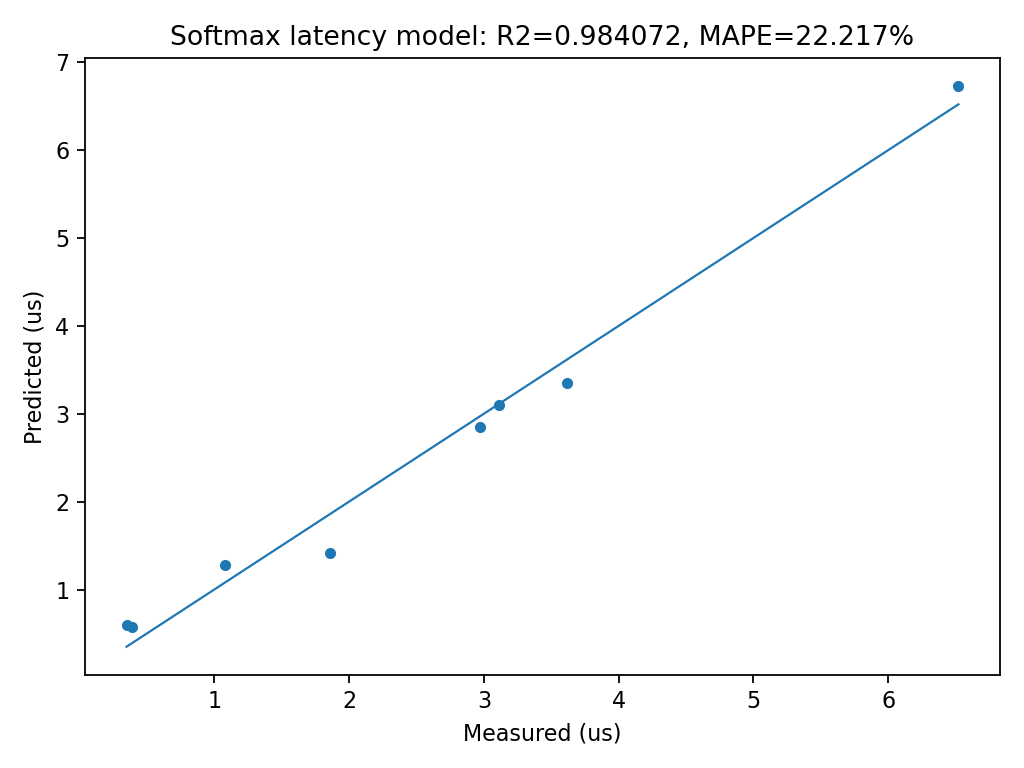
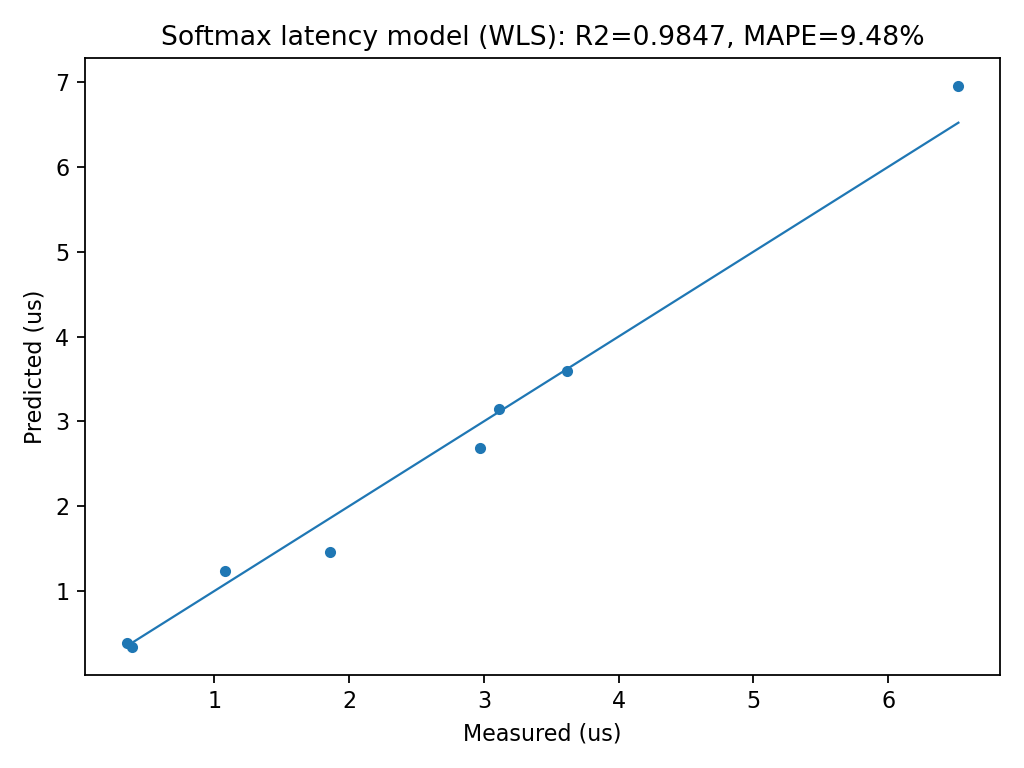
chore: ignore build/profiler artifacts

diff --git a/measurements/fit_model/softmax/fit_softmax_model.py b/measurements/fit_model/softmax/fit_softmax_model.py
@@ -4,10 +4,14 @@ import pandas as pd
 import matplotlib.pyplot as plt
 from typing import Tuple, Dict
 
-TARGET_FILE = "softmax_kernel.h"
+# ---------------- fixed targets & knobs ----------------
+TARGET_FILE  = "softmax_kernel.h"
 TARGET_LINES = (98, 103)
+CORES   = 24      # for Ascend 910B1
+K_ALIGN = 128     # coarse alignment feature; adjust if you know the kernel's true tile-K
 
 def parse_mk_from_path(path: str) -> Tuple[int,int]:
+    # Parse 'M x K' from any component of the path; delimiters: x/X/*
     m = re.search(r"(\d+)\s*[xX\*]\s*(\d+)", path)
     if not m: return (-1, -1)
     return tuple(map(int, m.groups()))
@@ -25,53 +29,76 @@ def sum_softmax_time_us(df: pd.DataFrame) -> float:
     mask = df["file"].astype(str).str.endswith(TARGET_FILE, na=False) & df["line"].isin(TARGET_LINES)
     return float(df.loc[mask, "running_time(us)"].sum())
 
-def summarize_one(p: str) -> dict:
-    df = read_code_exe(p)
-    M, K = parse_mk_from_path(p)
+def summarize_one(csv_path: str) -> Dict:
+    df = read_code_exe(csv_path)
+    M, K = parse_mk_from_path(csv_path)
     meas_us = sum_softmax_time_us(df)
     soft_file_total_us = float(df[df["file"].astype(str).str.endswith(TARGET_FILE, na=False)]["running_time(us)"].sum())
-    grand_total_us = float(df["running_time(us)"].sum())
+    grand_total_us     = float(df["running_time(us)"].sum())
     present_lines = sorted(df[df["file"].astype(str).str.endswith(TARGET_FILE, na=False)]["line"].dropna().unique().tolist())
     found_lines = sorted(df[(df["file"].astype(str).str.endswith(TARGET_FILE, na=False)) & (df["line"].isin(TARGET_LINES))]["line"].unique().tolist())
     note = ""
     if not found_lines:
-        note = f"WARNING: none of {TARGET_LINES} appeared; present lines head={present_lines[:10]}"
+        note = f"WARNING: none of {TARGET_LINES} appeared; present head={present_lines[:10]}"
     elif set(found_lines) != set(TARGET_LINES):
         note = f"INFO: only found lines {found_lines}, target={TARGET_LINES}"
-    return dict(path=p, M=M, K=K, meas_us=meas_us,
+
+    # light features
+    if M > 0:
+        core_row = (M + CORES - 1) // CORES        # ceil(M / CORES)
+        blocks   = (M + core_row - 1) // core_row  # ceil(M / core_row)
+    else:
+        core_row = 0; blocks = 0
+    k_tail = 1 if (K > 0 and (K % K_ALIGN) != 0) else 0
+
+    return dict(path=csv_path, M=M, K=K, meas_us=meas_us,
                 softmax_file_total_us=soft_file_total_us,
                 grand_total_us=grand_total_us,
                 ratio_target_over_file=(meas_us/soft_file_total_us if soft_file_total_us>0 else math.nan),
                 ratio_target_over_total=(meas_us/grand_total_us if grand_total_us>0 else math.nan),
-                found_lines=found_lines, present_lines=present_lines, note=note)
+                found_lines=found_lines, present_lines=present_lines, note=note,
+                blocks=blocks, k_tail=k_tail)
 
-def build_design(df_cases: pd.DataFrame) -> pd.DataFrame:
+def build_X(df_cases: pd.DataFrame) -> pd.DataFrame:
     return pd.DataFrame({
-        "MK": df_cases["M"]*df_cases["K"],
-        "M":  df_cases["M"],
+        "MK":   df_cases["M"]*df_cases["K"],
+        "M":    df_cases["M"],
+        "blk":  df_cases["blocks"],
+        "ktl":  df_cases["k_tail"],
         "bias": 1.0
     })
 
-def fit_linear(X: pd.DataFrame, y: pd.Series):
-    XtX = X.T @ X
-    Xty = X.T @ y
+def fit_wls_relative(X: pd.DataFrame, y: pd.Series):
+    # Weighted least squares with weights ~ 1 / y^2 to target relative error (MAPE-like).
+    yv = y.values.astype(float)
+    Xv = X.values.astype(float)
+    w  = 1.0 / np.maximum(1e-9, yv)**2              # emphasize relative error
+    WX = Xv * w[:, None]
+    Wy = yv * w
+    XtWX = Xv.T @ WX
+    XtWy = Xv.T @ Wy
     try:
-        beta = np.linalg.solve(XtX.values, Xty.values)
+        beta = np.linalg.solve(XtWX, XtWy)
     except np.linalg.LinAlgError:
-        beta = np.linalg.pinv(XtX.values) @ Xty.values
-    yhat = X.values @ beta
-    resid = y.values - yhat
+        beta = np.linalg.pinv(XtWX) @ XtWy
+    yhat = Xv @ beta
+
+    # metrics
+    resid = yv - yhat
+    ape   = np.abs(resid / np.maximum(1e-9, yv)) * 100.0
+    mape  = float(np.mean(ape))
+    p50   = float(np.percentile(ape, 50))
+    p90   = float(np.percentile(ape, 90))
     ss_res = float(np.sum(resid**2))
-    ss_tot = float(np.sum((y.values - y.values.mean())**2)) if len(y)>1 else 0.0
+    ss_tot = float(np.sum((yv - yv.mean())**2)) if len(yv)>1 else 0.0
     r2 = 1.0 - ss_res/ss_tot if ss_tot>0 else float("nan")
-    mape = float(np.mean(np.abs(resid / np.maximum(1e-9, y.values))) * 100.0)
-    return beta, yhat, r2, mape
+    return beta, yhat, dict(MAPE=mape, P50=p50, P90=p90, R2=r2)
 
 def main():
     ap = argparse.ArgumentParser()
     ap.add_argument("--csv_glob", default="./results/core0.veccore0_code_exe_*.csv",
-                    help="Glob pattern of msprof code_exe CSV files (default: ./results/core0.veccore0_code_exe_*.csv)")
-    ap.add_argument("--out_dir", default="./softmax_fit_out")
+                    help="Glob of msprof code_exe CSVs (default: ./results/core0.veccore0_code_exe_*.csv)")
+    ap.add_argument("--out_dir",  default="./softmax_fit_out")
     args = ap.parse_args()
 
     paths = sorted(glob.glob(args.csv_glob))
@@ -84,43 +111,58 @@ def main():
     summary_csv = os.path.join(args.out_dir, "softmax_latency_summary.csv")
     data.to_csv(summary_csv, index=False)
 
+    # sanity prints
     bad = data[(data["ratio_target_over_file"]>1.0) | (data["ratio_target_over_file"]<0)]
     if len(bad):
-        print("[WARN] target/file ratio out of [0,1] range for some rows:")
+        print("[WARN] target/file ratio out of [0,1] for rows:")
         print(bad[["path","ratio_target_over_file"]].to_string(index=False))
 
-    fit_df = data[(data["M"]>0) & (data["K"]>0)].copy()
-    model_json = os.path.join(args.out_dir, "softmax_latency_model.json")
-    if len(fit_df) >= 3:
-        X = build_design(fit_df)
-        y = fit_df["meas_us"]
-        beta, yhat, r2, mape = fit_linear(X, y)
-        coefs = dict(a_MK=float(beta[0]), b_M=float(beta[1]), c_bias=float(beta[2]))
-        json.dump(dict(model="T_us = a*MK + b*M + c",
-                       target_file=TARGET_FILE, target_lines=TARGET_LINES,
-                       coefficients=coefs, metrics=dict(r2=r2, mape=mape),
-                       samples=len(fit_df)),
-                  open(model_json, "w"), indent=2)
-        plt.figure()
-        plt.scatter(y, yhat, s=16)
-        lo, hi = float(y.min()), float(y.max())
-        plt.plot([lo, hi], [lo, hi], linewidth=1)
-        plt.xlabel("Measured (us)")
-        plt.ylabel("Predicted (us)")
-        plt.title(f"Softmax latency model: R2={r2:.6f}, MAPE={mape:.3f}%")
-        plt.tight_layout()
-        plt.savefig(os.path.join(args.out_dir, "softmax_latency_fit_plot.png"), dpi=160)
-        print("[OK] Fitted model: T_us = a*MK + b*M + c")
-        print("     a_MK={:.6e}, b_M={:.6e}, c={:.6e}".format(coefs["a_MK"], coefs["b_M"], coefs["c_bias"]))
-        print("     R2={:.6f}, MAPE={:.3f}%".format(r2, mape))
-    else:
-        json.dump(dict(model="T_us = a*MK + b*M + c",
-                       target_file=TARGET_FILE, target_lines=TARGET_LINES,
-                       error="Not enough samples to fit; need >=3 with distinct (M,K).",
-                       samples=len(fit_df)),
-                  open(model_json, "w"), indent=2)
-        print("[WARN] Not enough samples to fit model (need >=3 distinct shapes); wrote JSON with explanation.")
+    # fit (need >=3 with valid shapes)
+    fit_df = data[(data["M"]>0)&(data["K"]>0)].copy()
+    if len(fit_df) < 3:
+        model_json = os.path.join(args.out_dir, "softmax_latency_model.json")
+        json.dump(dict(
+            model="T_us = a*MK + b*M + d*blocks + e*k_tail + c",
+            error="Not enough samples to fit; need >=3 with distinct (M,K).",
+            samples=len(fit_df),
+            targets=dict(file=TARGET_FILE, lines=TARGET_LINES),
+        ), open(model_json, "w"), indent=2)
+        print("[WARN] Not enough samples to fit. Wrote JSON with explanation.")
+        print(f"[OK] Summary CSV: {summary_csv}")
+        print(f"[OK] Model JSON : {model_json}")
+        return
 
+    X = build_X(fit_df)
+    y = fit_df["meas_us"]
+    beta, yhat, metrics = fit_wls_relative(X, y)
+
+    coefs = dict(a_MK=float(beta[0]), b_M=float(beta[1]), d_blk=float(beta[2]),
+                 e_ktl=float(beta[3]), c_bias=float(beta[4]))
+
+    # save model
+    model_json = os.path.join(args.out_dir, "softmax_latency_model.json")
+    json.dump(dict(
+        model="T_us = a*MK + b*M + d*blocks + e*k_tail + c",
+        coefficients=coefs, metrics=metrics, samples=len(fit_df),
+        targets=dict(file=TARGET_FILE, lines=TARGET_LINES),
+        knobs=dict(CORES=CORES, K_ALIGN=K_ALIGN),
+    ), open(model_json, "w"), indent=2)
+
+    # parity plot
+    plt.figure()
+    plt.scatter(y, yhat, s=16)
+    lo, hi = float(y.min()), float(y.max())
+    plt.plot([lo, hi], [lo, hi], linewidth=1)
+    plt.xlabel("Measured (us)")
+    plt.ylabel("Predicted (us)")
+    plt.title(f"Softmax latency model (WLS): R2={metrics['R2']:.4f}, MAPE={metrics['MAPE']:.2f}%")
+    plt.tight_layout()
+    plt.savefig(os.path.join(args.out_dir, "softmax_latency_fit_plot.png"), dpi=160)
+
+    print("[OK] Fitted model (WLS, relative):")
+    print("     a_MK={a:.6e}, b_M={b:.6e}, d_blk={d:.6e}, e_ktl={e:.6e}, c={c:.6e}".format(
+        a=coefs["a_MK"], b=coefs["b_M"], d=coefs["d_blk"], e=coefs["e_ktl"], c=coefs["c_bias"]))
+    print("     Metrics:", metrics)
     print(f"[OK] Summary CSV: {summary_csv}")
     print(f"[OK] Model JSON : {model_json}")
 
